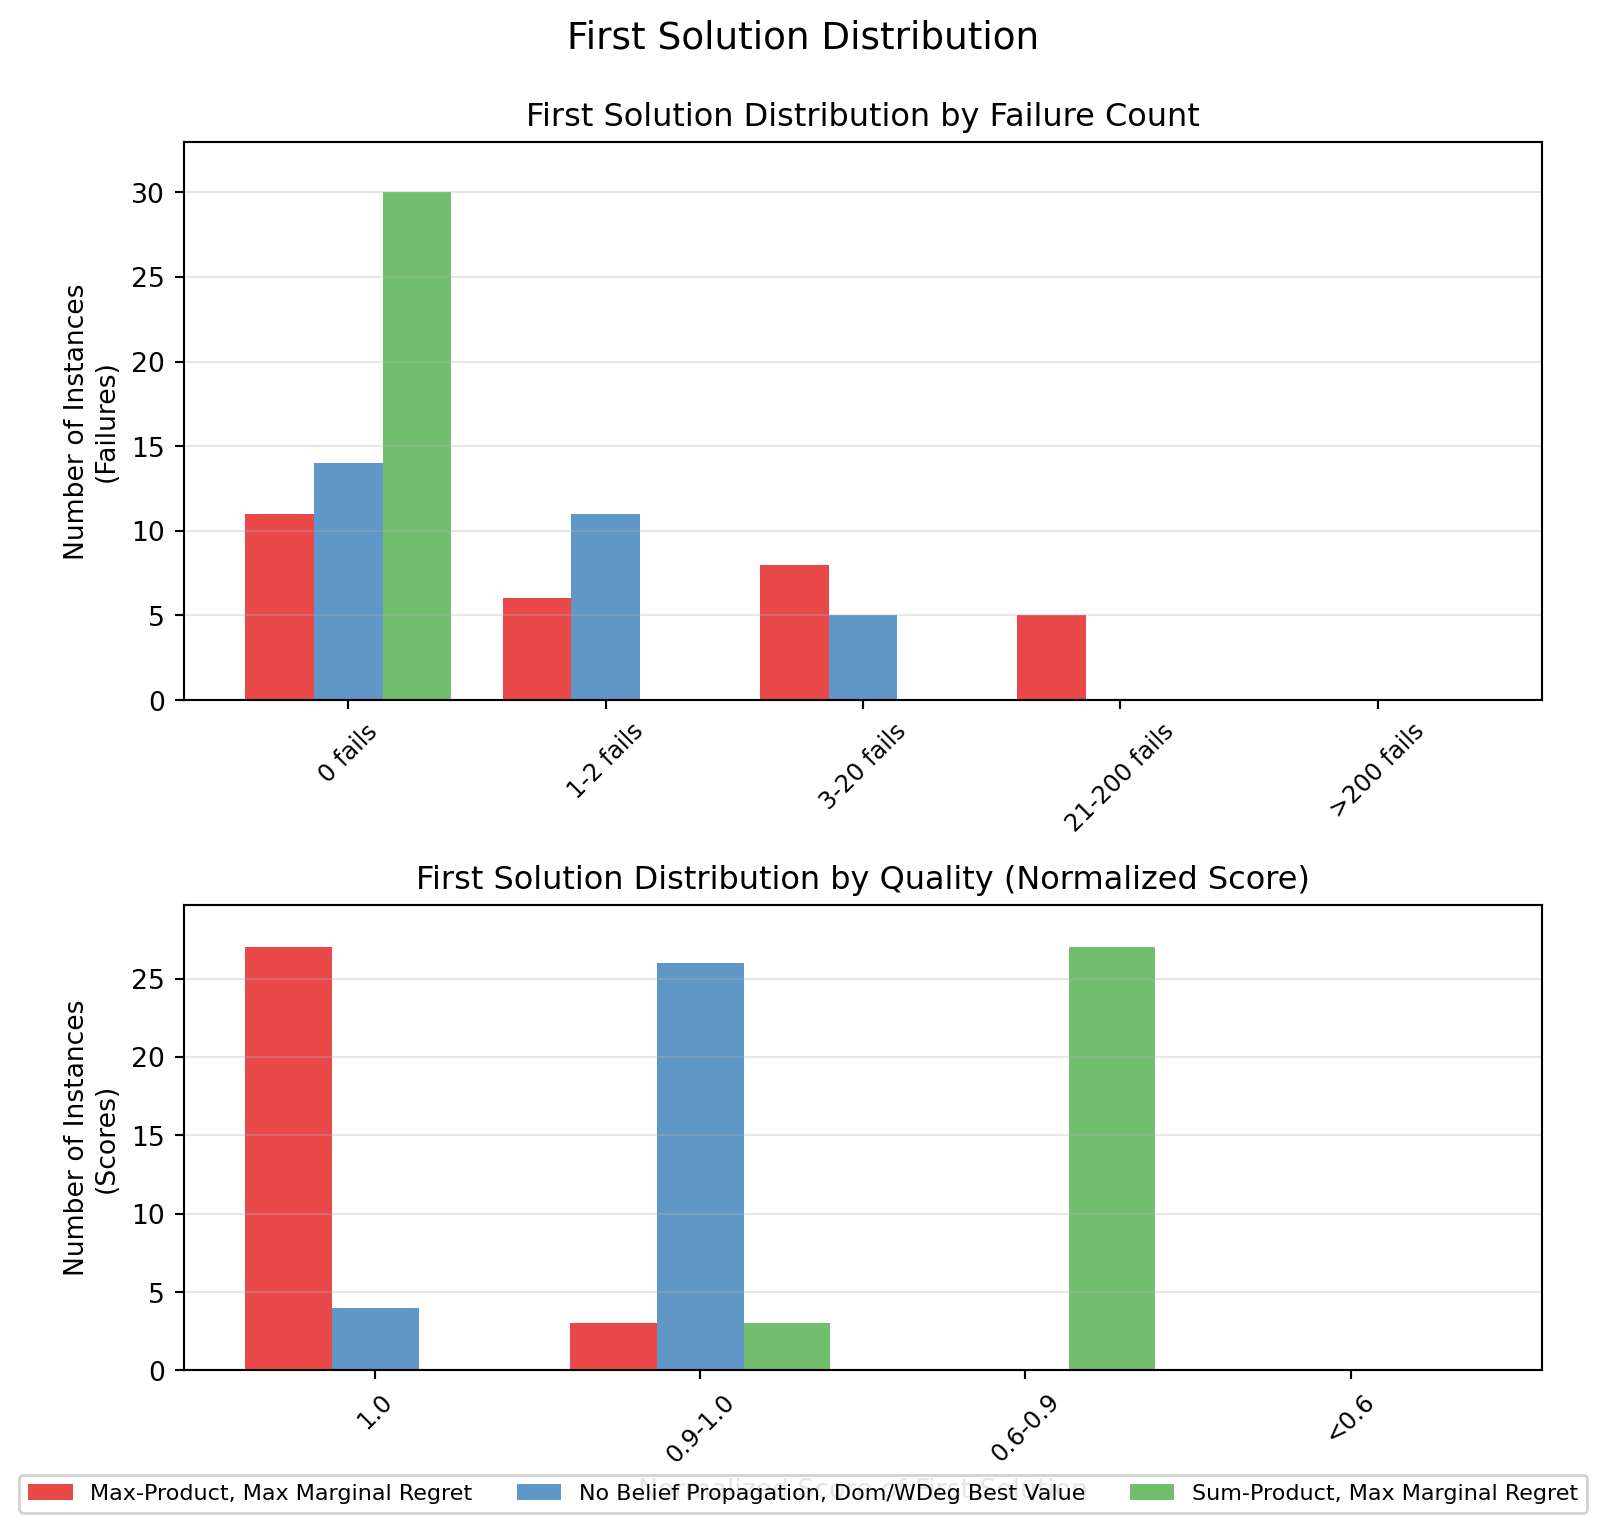
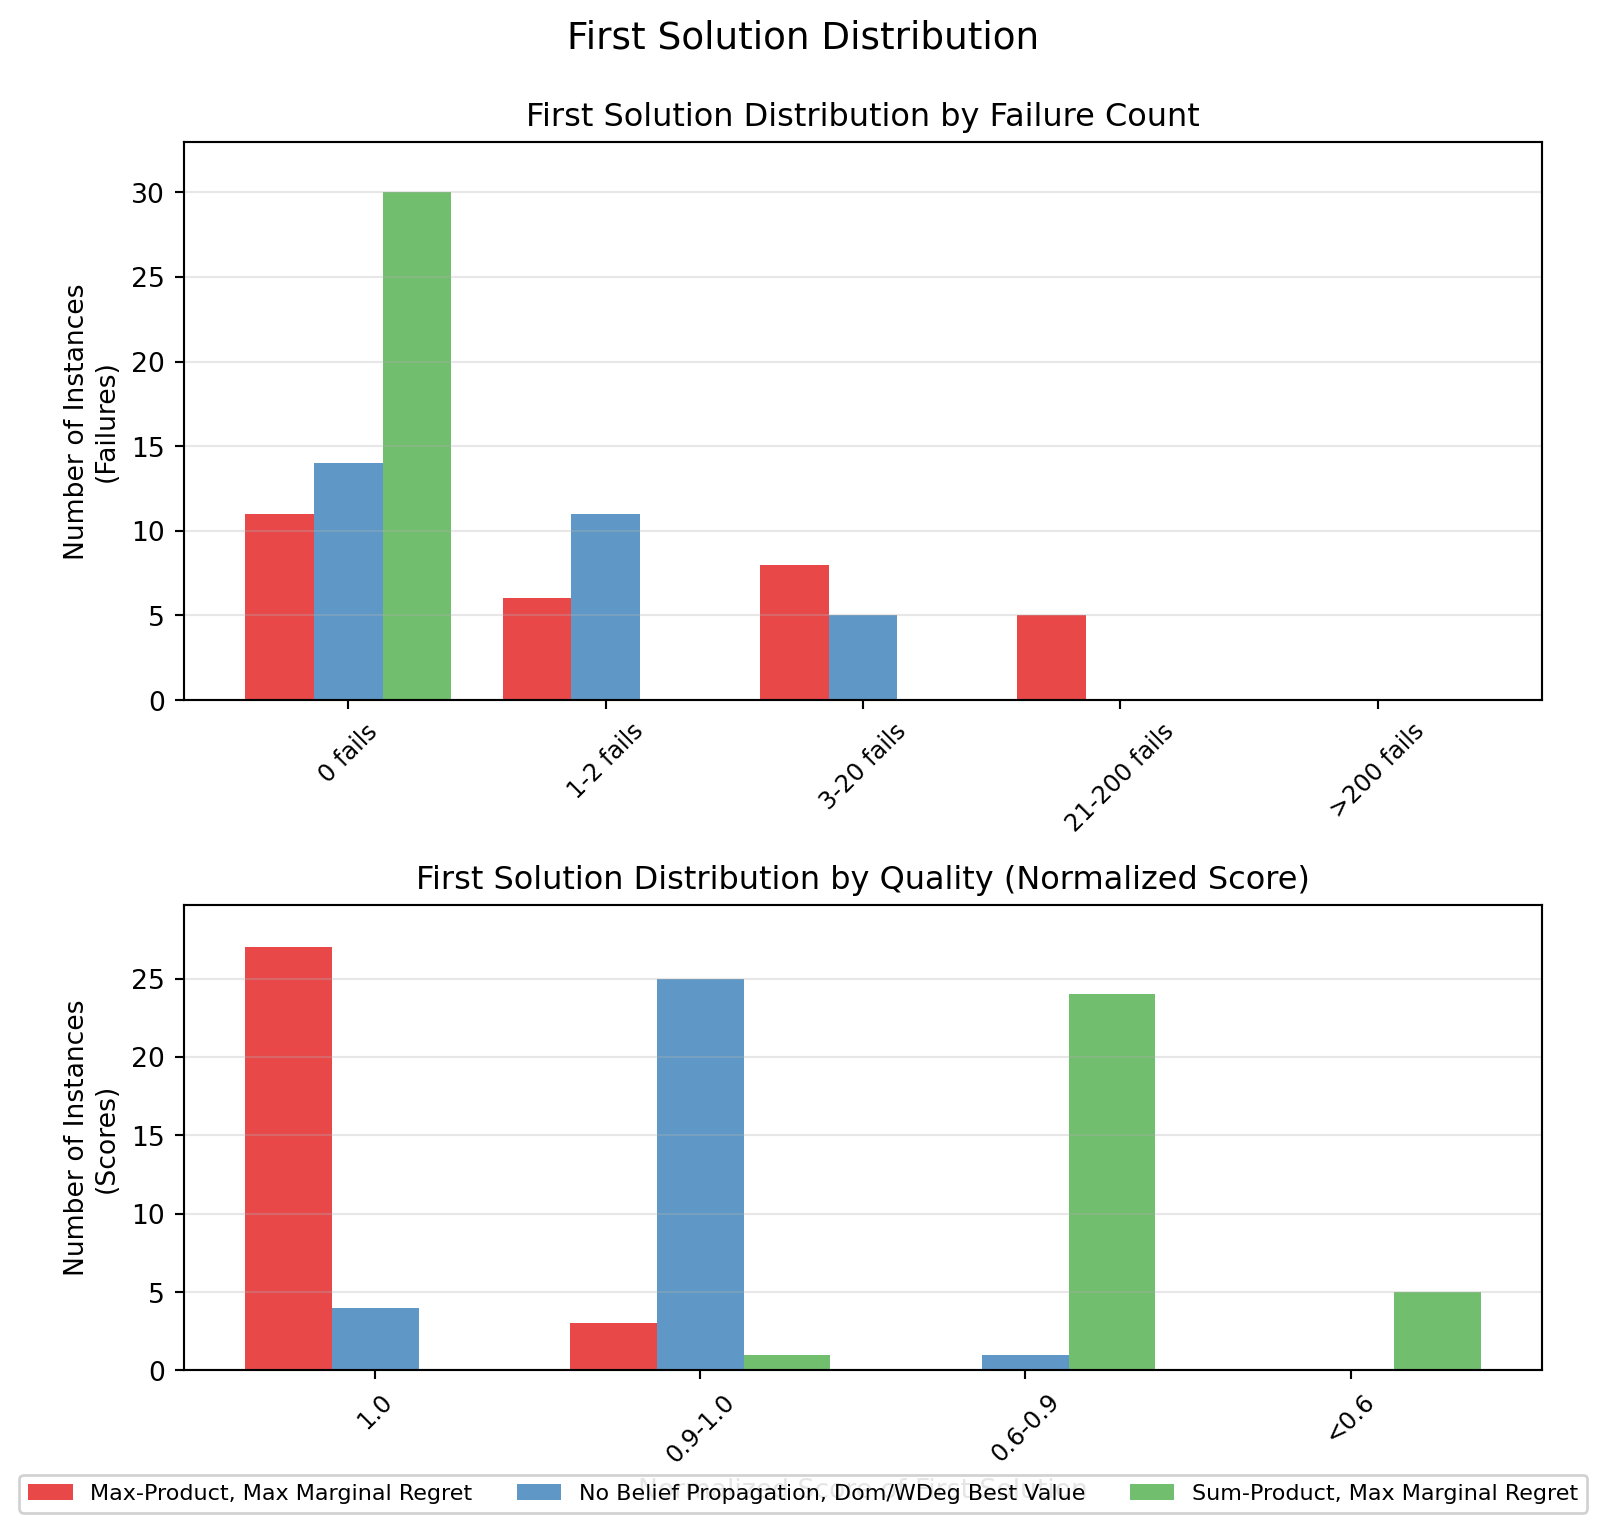
latin-square updates

diff --git a/cpbp/latin-square/branching-comparison.html b/cpbp/latin-square/branching-comparison.html
@@ -127,7 +127,7 @@ pre > code.sourceCode > span > a:first-child::before { text-decoration: underlin
 <li>Dom/wdeg + Best value</li>
 </ul></li>
 </ul>
-<div id="46fe1f57" class="cell" data-execution_count="1">
+<div id="cbf3af99" class="cell" data-execution_count="1">
 <details class="code-fold">
 <summary>Code</summary>
 <div class="sourceCode cell-code" id="cb1"><pre class="sourceCode python code-with-copy"><code class="sourceCode python"><span id="cb1-1"><a href="#cb1-1" aria-hidden="true" tabindex="-1"></a><span class="im">from</span> experiment_api <span class="im">import</span> set_log_level, plot_optimal_solutions_reached, plot_mean_normalized_score, METRIC_FAILURES, METRIC_EXECUTION_TIME, plot_first_solution_histogram, plot_comprehensive_comparison</span>
@@ -148,7 +148,7 @@ pre > code.sourceCode > span > a:first-child::before { text-decoration: underlin
 <section id="limited-discrepancy-search-lds" class="level1">
 <h1>Limited Discrepancy Search (LDS)</h1>
 <p>In this section, we compare different branching heuristics using the LDS search strategy.</p>
-<div id="[phone redacted]" class="cell" data-execution_count="2">
+<div id="9236d6c2" class="cell" data-execution_count="2">
 <details class="code-fold">
 <summary>Code</summary>
 <div class="sourceCode cell-code" id="cb2"><pre class="sourceCode python code-with-copy"><code class="sourceCode python"><span id="cb2-1"><a href="#cb2-1" aria-hidden="true" tabindex="-1"></a><span class="co"># Create a filter for LDS search</span></span>
@@ -198,7 +198,7 @@ pre > code.sourceCode > span > a:first-child::before { text-decoration: underlin
 <section id="depth-first-search-dfs" class="level1">
 <h1>Depth-First Search (DFS)</h1>
 <p>In this section, we compare different branching heuristics using the DFS search strategy.</p>
-<div id="0462ec21" class="cell" data-execution_count="3">
+<div id="2ba9e8e8" class="cell" data-execution_count="3">
 <details class="code-fold">
 <summary>Code</summary>
 <div class="sourceCode cell-code" id="cb3"><pre class="sourceCode python code-with-copy"><code class="sourceCode python"><span id="cb3-1"><a href="#cb3-1" aria-hidden="true" tabindex="-1"></a>bp_filter_criteria <span class="op">=</span> bp_base_filter.copy()</span>